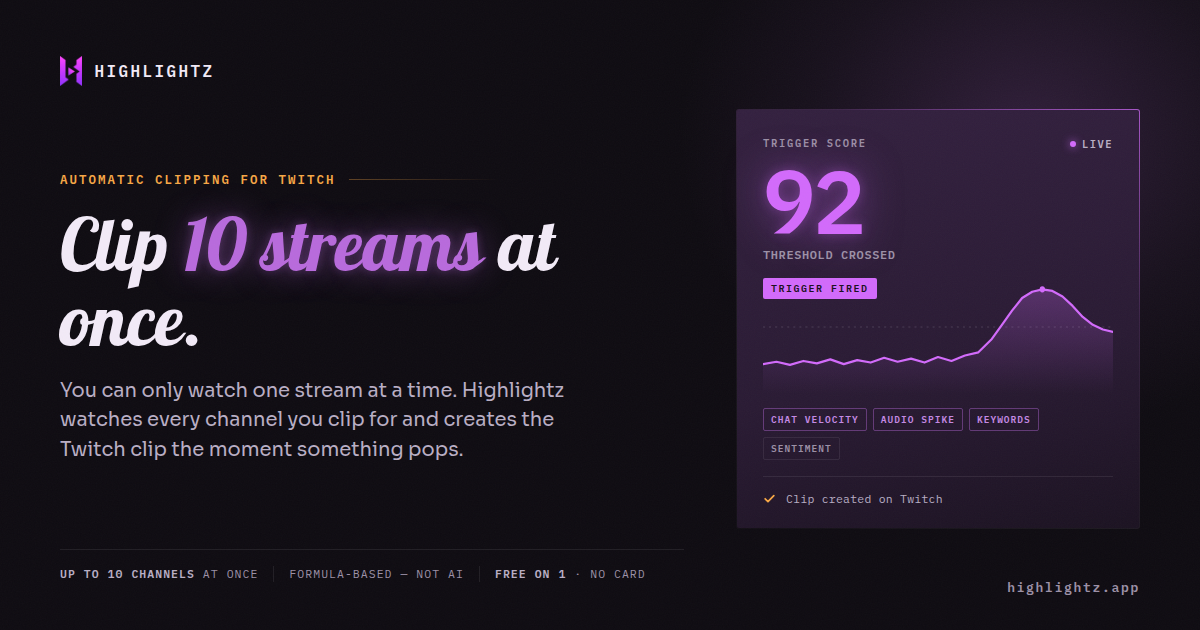
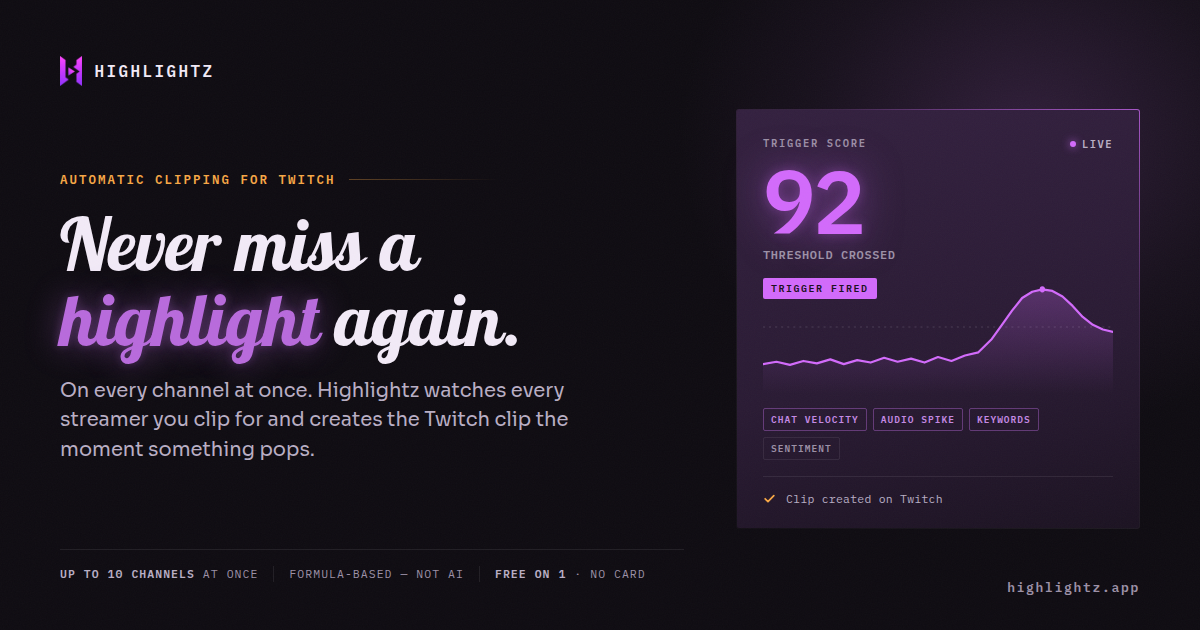
Keep the slogan as the headline, carry the channel count in the lead
Never miss a highlight again is the brand line and belongs at the top of the
page and on the social card. Replacing it with the multi-channel claim sold
the feature at the cost of the thing people recognise.

The h1 and the card headline go back to the slogan. The claim it was carrying
moves into the hero lead, which now opens with "On every channel at once" and
closes on "Up to 10 channels at the same time on Pro" — so the first two
sentences a visitor reads still say it, above the fold, without displacing
the brand. Everything else from the clipper pass is unchanged.

The plan-limit test follows: it no longer looks for a number in the h1 (there
deliberately is not one) and instead pins the slogan and requires the count in
the hero lead, so the page cannot end up with its main claim living only in
the pricing table.

Card rebuilt at the same og-card-v3.png path — it has not been served in
public yet, so no cache to bust.

Verified: 732 tests pass; rendered at 1440x900 and 390x844 with no horizontal
overflow and no page errors.

Changed region(s): [[0.0308, 0.3317, 0.4933, 0.7238]]

diff --git a/scripts/og_card.html b/scripts/og_card.html
@@ -138,9 +138,9 @@
 
     <div class="copy">
       <div class="kicker">Automatic clipping for Twitch</div>
-      <h1>Clip <span class="accent">10 streams</span> at once.</h1>
-      <p class="lead">You can only watch one stream at a time. Highlightz watches every
-        channel you clip for and creates the Twitch clip the moment something pops.</p>
+      <h1>Never miss a <span class="accent">highlight</span> again.</h1>
+      <p class="lead">On every channel at once. Highlightz watches every streamer you clip
+        for and creates the Twitch clip the moment something pops.</p>
     </div>
 
     <div class="tags">

diff --git a/src/dashboard/api.py b/src/dashboard/api.py
@@ -4103,7 +4103,7 @@ LANDING_HTML = """<!DOCTYPE html>
 <meta property="og:type" content="website">
 <meta property="og:site_name" content="Highlightz">
 <meta property="og:url" content="https://highlightz.app/">
-<meta property="og:title" content="Highlightz — Clip up to 10 streams at once, automatically">
+<meta property="og:title" content="Highlightz — Never miss a highlight again, on 10 streams at once">
 <meta property="og:description" content="Automatic Twitch clipping across every channel you watch — a transparent formula, not AI. Free on one channel, no card required.">
 <!-- Preview card: social platforms cache this image keyed on the URL, so the
      filename must change whenever the art does. Source, build and the full
@@ -4112,7 +4112,7 @@ LANDING_HTML = """<!DOCTYPE html>
 <meta property="og:image:type" content="image/png">
 <meta property="og:image:width" content="1200">
 <meta property="og:image:height" content="630">
-<meta property="og:image:alt" content="Highlightz — clip 10 streams at once. A live trigger score of 92 crossing the threshold and creating a clip on Twitch.">
+<meta property="og:image:alt" content="Highlightz — never miss a highlight again, on every channel at once. A live trigger score of 92 crossing the threshold and creating a clip on Twitch.">
 <meta name="twitter:card" content="summary_large_image">
 <meta name="twitter:title" content="Highlightz — Never miss a highlight again">
 <meta name="twitter:description" content="Automatic Twitch clipping across every channel you watch — a transparent formula, not AI. Free on one channel, no card required.">
@@ -4750,8 +4750,8 @@ LANDING_HTML = """<!DOCTYPE html>
 <header class="wrap hero">
   <div class="hero-copy">
     <div class="kicker">Automatic Twitch clipping — for clippers and streamers</div>
-    <h1>Clip <span class="accent" style="white-space:nowrap">10 streams</span> at once.</h1>
-    <p class="lead">You can only watch one stream at a time. Highlightz watches all of them — every channel you clip for, plus your own — scoring each one second by second and creating the Twitch clip the moment something pops. <b>Up to 10 channels at the same time on Pro.</b></p>
+    <h1>Never miss a <span class="accent">highlight</span> again.</h1>
+    <p class="lead">On every channel at once. You can only watch one stream at a time — Highlightz watches all of them, every streamer you clip for plus your own, scoring each one second by second and creating the Twitch clip the moment something pops. <b>Up to 10 channels at the same time on Pro.</b></p>
     <div class="hero-ctas">
       <a href="/login" class="btn btn-key btn-lg">Start clipping now</a>
       <a href="#pricing" class="btn btn-quiet btn-lg">See the plans</a>

diff --git a/tests/test_landing.py b/tests/test_landing.py
@@ -167,9 +167,12 @@ def test_the_advertised_channel_counts_come_from_the_real_plan_limits():
     starter = PLAN_LIMITS["starter"]["max_streams"]
     pro     = PLAN_LIMITS["pro"]["max_streams"]
 
-    # The headline promise, in the three places a visitor cannot miss.
-    assert f">{pro} streams</span> at once." in html          # the h1
-    assert f"Up to {pro} channels at once" in html            # hero tag
+    # Above the fold, in the three places a visitor cannot miss. The h1 is the
+    # brand slogan and deliberately carries no number — so the hero has to say
+    # it in the lead, or the page's main claim lives only in the pricing table.
+    assert "Never miss a <span class=\"accent\">highlight</span> again." in html
+    assert f"Up to {pro} channels at the same time on Pro." in html   # hero lead
+    assert f"Up to {pro} channels at once" in html                    # hero tag
     assert f"channels watched at once on Pro &mdash; {starter} on Starter" in html
 
     # The pricing cards, which is where the paid tiers have to be unambiguous.
